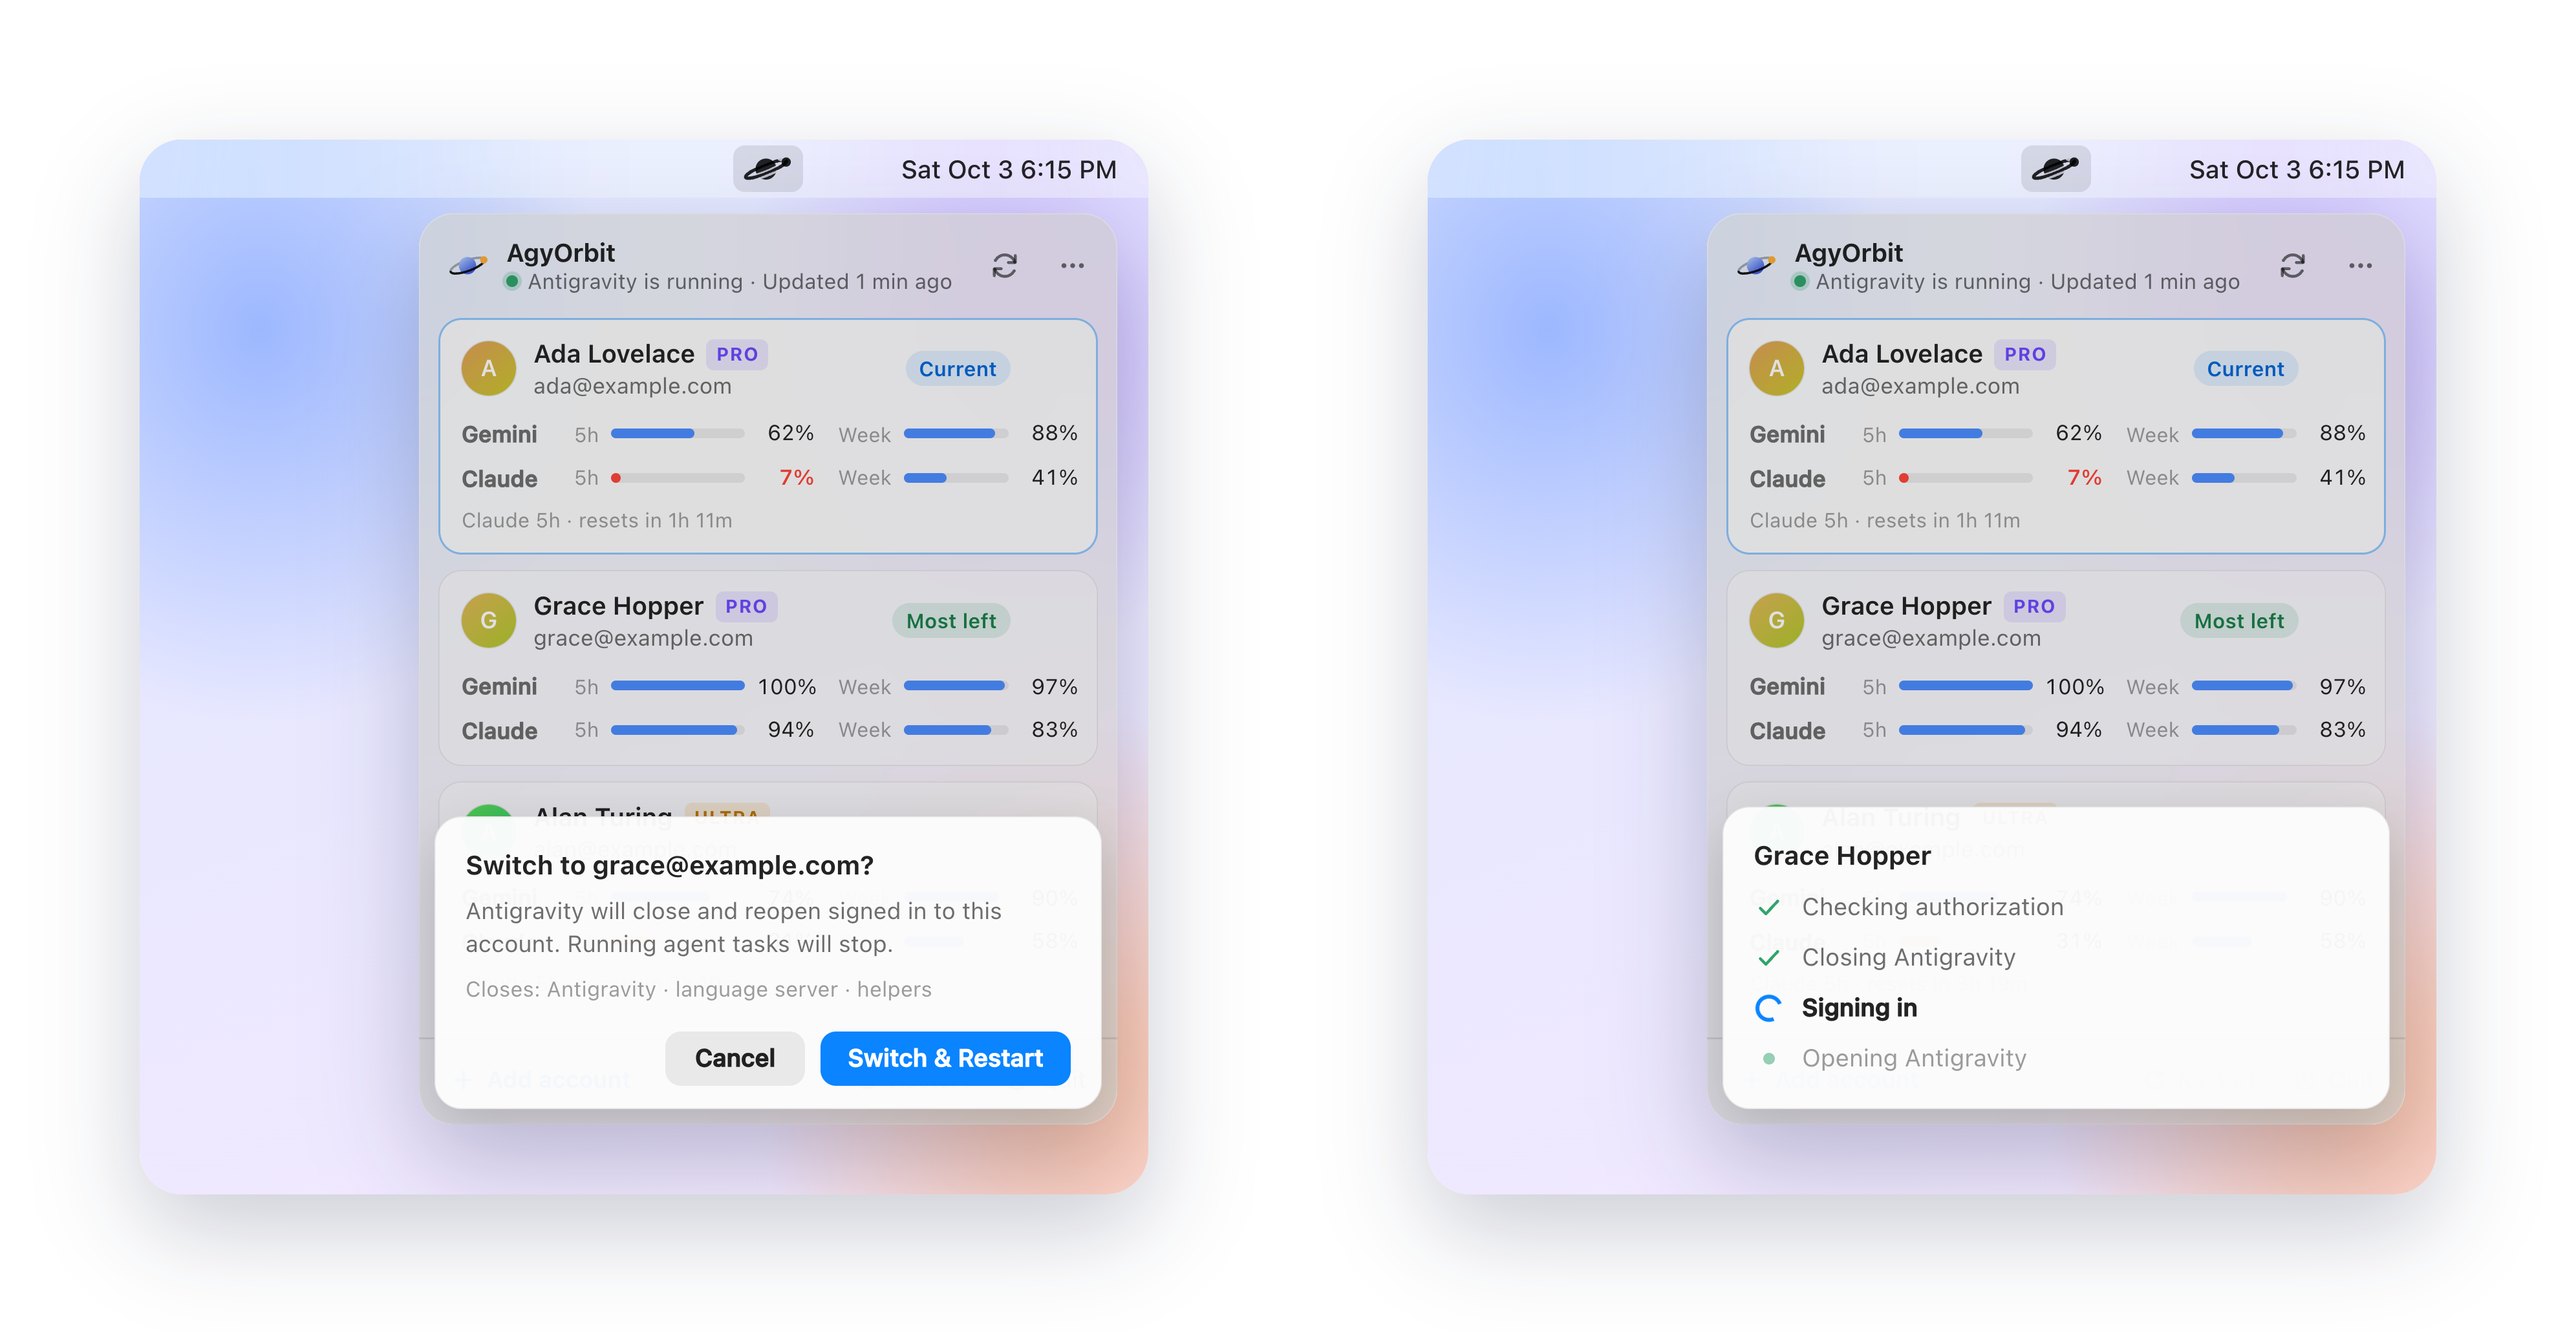
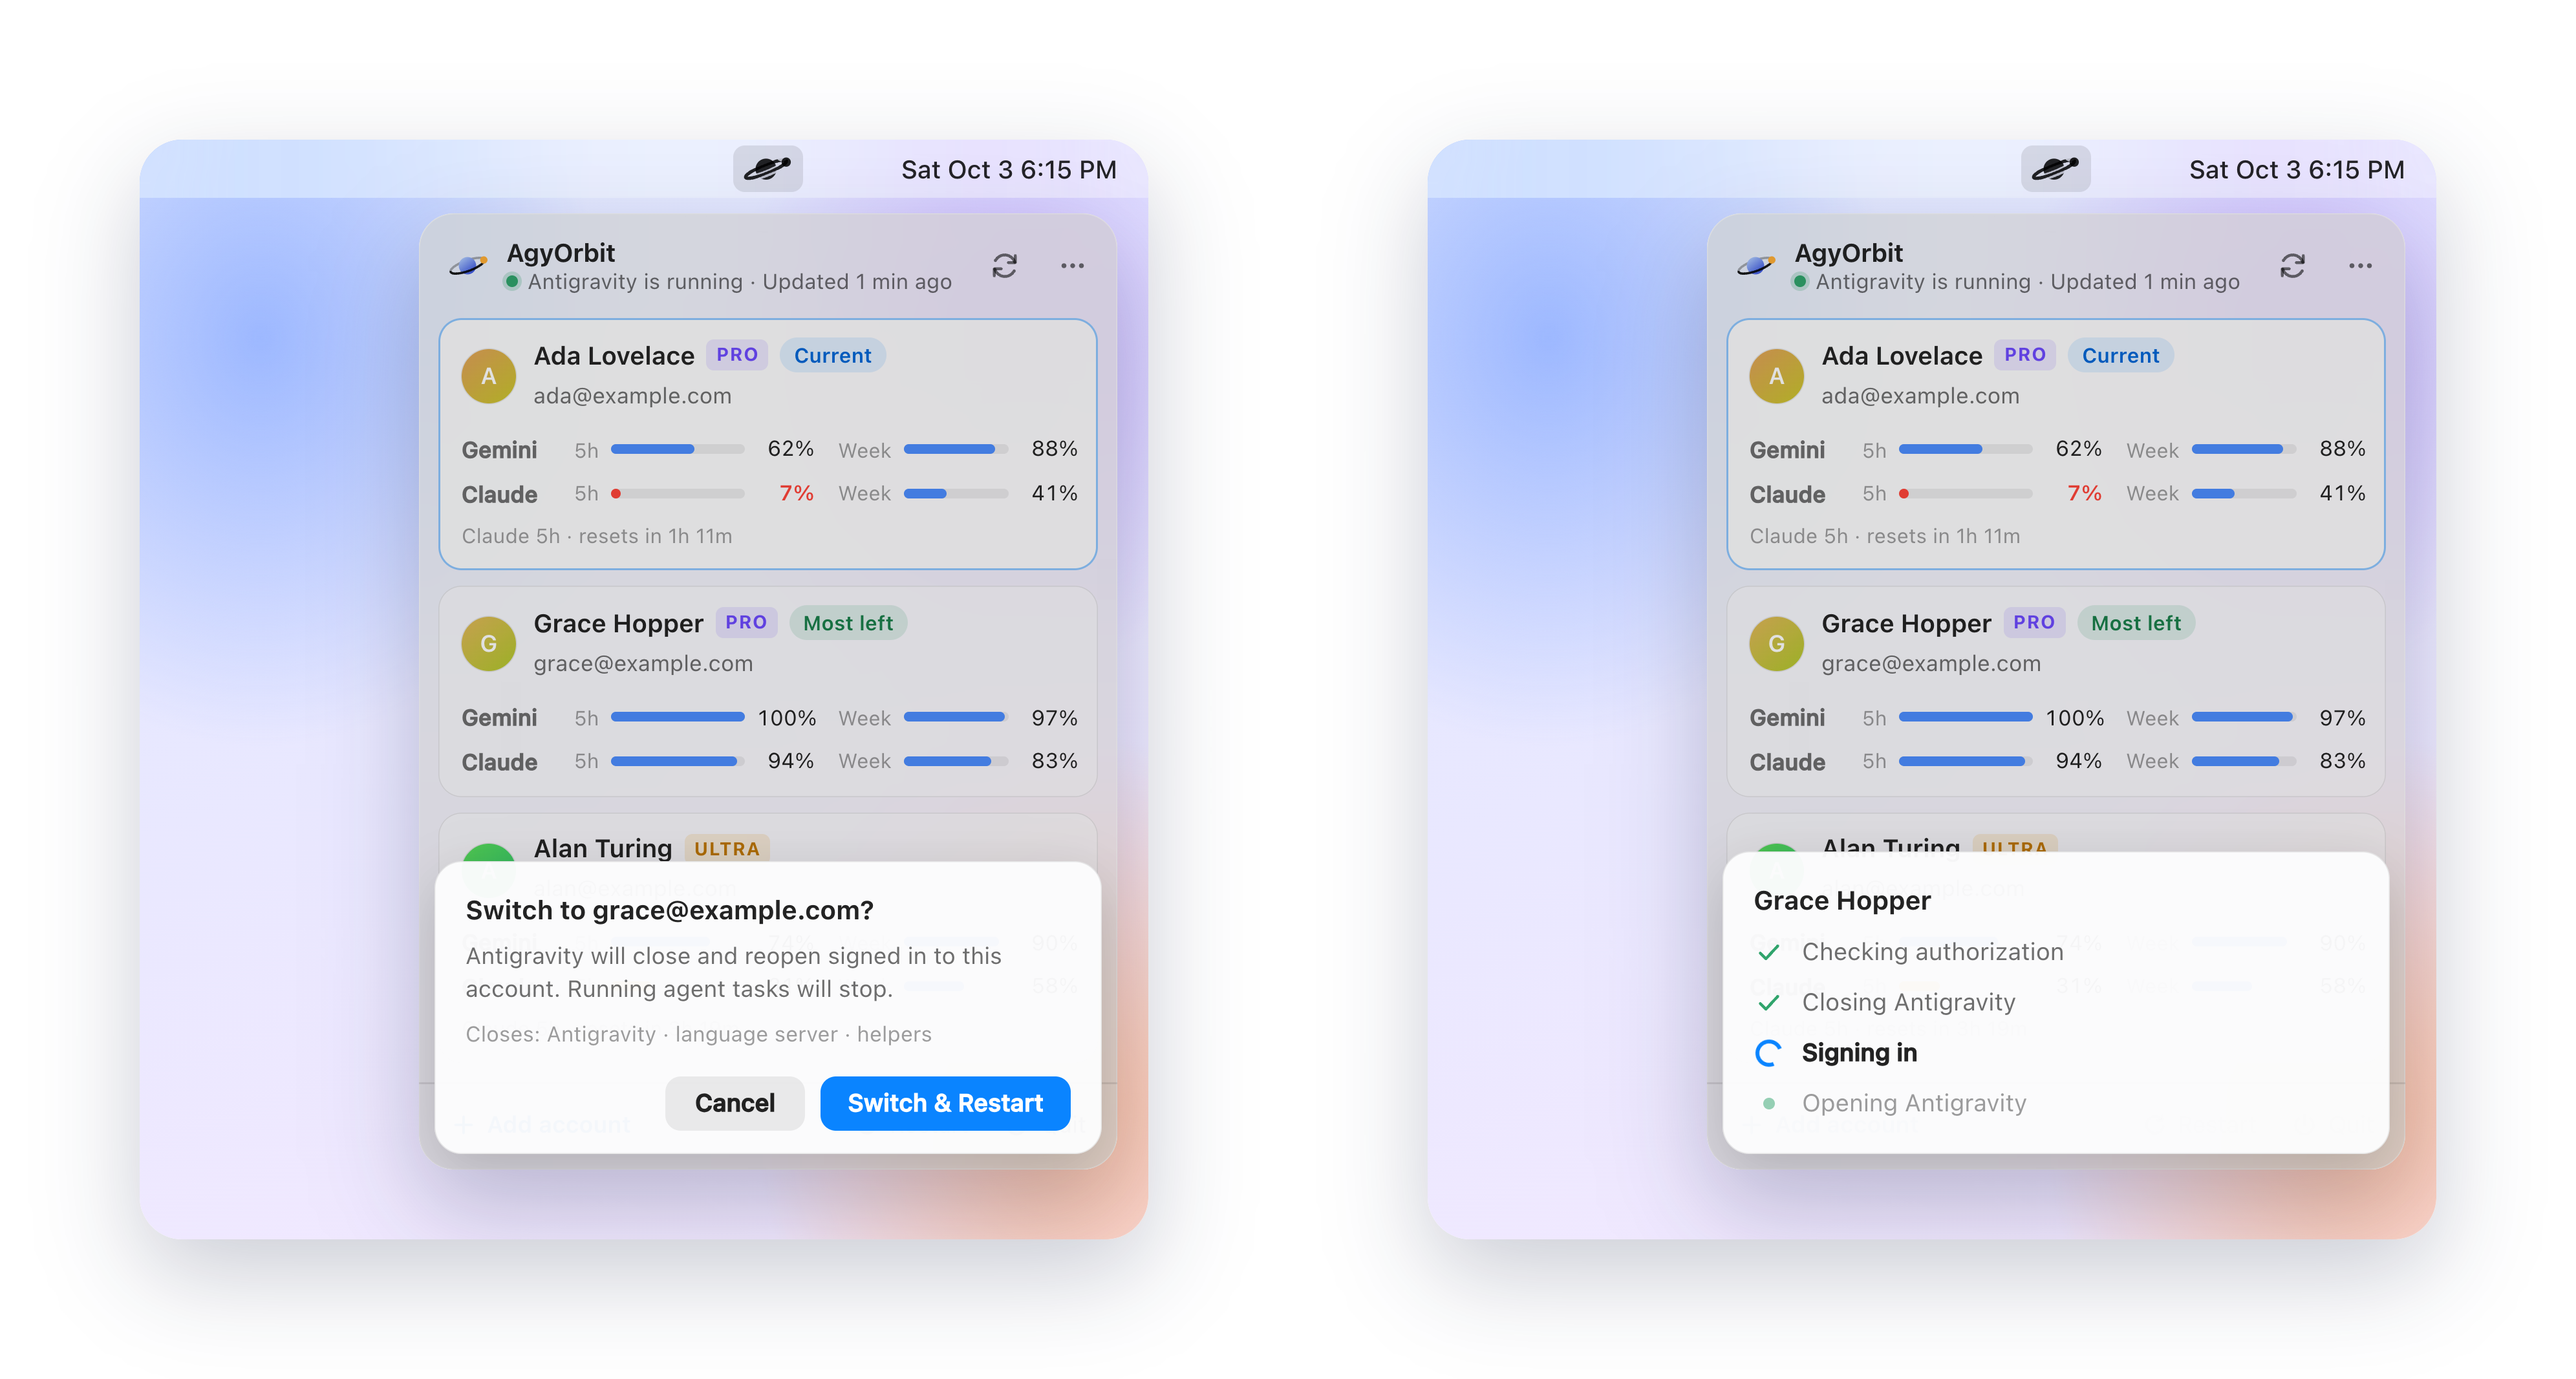
Refresh account screenshots and record layout verification

diff --git a/docs/status.md b/docs/status.md
@@ -26,6 +26,11 @@ verified.
 Each external fact these rely on, and the Antigravity version it was checked against, is listed in
 [antigravity-integration.md](antigravity-integration.md).
 
+## Verified with synthetic accounts
+
+- Account-card layout in Chrome on macOS, in English and Simplified Chinese, light and dark: tags and
+  the Switch button do not overlap, including long names and emails, hover and keyboard focus.
+
 ## Known limitations
 
 Accepted limitations are tracked as issues labeled
